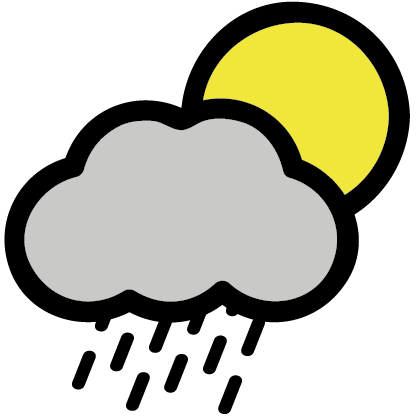
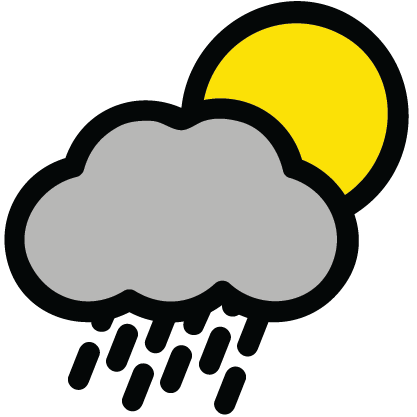
NightMode, working iconswitch

diff --git a/src/components/Layout.tsx b/src/components/Layout.tsx
@@ -7,7 +7,8 @@ import Home from './Home';
 import WeekOverview from './WeekOverview';
 import Clothes from './Clothes';
 
-interface Props{}
+interface Props{
+}
 
 interface State{
   isDayMode: boolean,
@@ -70,7 +71,7 @@ export default class Layout extends React.Component <Props, State>{
       return (
         <div style = {this.state.modeStyle}>
             <ErrorBoundary>
-              <MainView />
+              <MainView isDayMode = {this.state.isDayMode}/>
             </ErrorBoundary>
             <DayNightMode isDayMode = {this.state.isDayMode} buttonText = {this.state.buttonText} onToggleMode = {this.toggleDayNightMode}/>
             <Navbar isDayMode = {this.state.isDayMode}/>
@@ -82,13 +83,13 @@ export default class Layout extends React.Component <Props, State>{
       return (
         <div style = {this.state.modeStyle}>
             <ErrorBoundary>
-              <Home />
+              <Home isDayMode={this.state.isDayMode}/>
             </ErrorBoundary>
             <ErrorBoundary>
-              <WeekOverview />
+              <WeekOverview isDayMode = {this.state.isDayMode}/>
             </ErrorBoundary>
             <ErrorBoundary>
-              <Clothes />
+              <Clothes isDayMode = {this.state.isDayMode}/>
             </ErrorBoundary>
             <DayNightMode isDayMode = {this.state.isDayMode} buttonText = {this.state.buttonText} onToggleMode = {this.toggleDayNightMode}/>
         </div>

diff --git a/src/components/WeatherFigure.tsx b/src/components/WeatherFigure.tsx
@@ -1,7 +1,8 @@
 import React,{ CSSProperties } from 'react';
 
 interface Props {
-  weatherContent: any
+  weatherContent: any,
+  isDayMode: boolean
 }
 
 export default class WeatherFigure extends React.Component<Props>{
@@ -14,7 +15,9 @@ export default class WeatherFigure extends React.Component<Props>{
       const weather = this.props.weatherContent
       let weatherSlothIMG
 
-      if (weather.main.temp < 278){
+      if(!this.props.isDayMode){
+        weatherSlothIMG = "GothSloth";
+      } else if (weather.main.temp < 278){
         //temp in Kelvin, about 5+ C
         weatherSlothIMG = "ColdSloth";
       } else if (weather.weather[0].icon === "09d"){
@@ -37,7 +40,12 @@ export default class WeatherFigure extends React.Component<Props>{
       }
 
       let weatherSlothURL = require(`../asset/images/weatherSloths/${weatherSlothIMG}.png`)
-      const imgURL = require(`../asset/images/weatherIcons/${weather.weather[0].icon}.png`);
+      let imgURL
+      if (this.props.isDayMode){
+        imgURL = require(`../asset/images/weatherIcons/${weather.weather[0].icon}.png`);
+      } else {
+        imgURL = require(`../asset/images/weatherIcons/NightMode/${weather.weather[0].icon}.png`);
+      }
 
       return (
           <div style={{...weatherFigureContainer}}>

diff --git a/src/components/WeekOverview.tsx b/src/components/WeekOverview.tsx
@@ -2,7 +2,9 @@ import * as React from 'react';
 import WeekDay from './WeekDay'
 
 
-interface Props {}
+interface Props {
+  isDayMode:boolean
+}
 
 interface State {
   weatherData?: any,
@@ -56,10 +58,10 @@ export default class WeekOverview extends React.Component<Props, State>{
       weatherList.pop();
       return (
         <div style={{ ...weatherListContainer}}>
-            <WeekDay weatherContent={weatherListToday} key="0" />
+            <WeekDay weatherContent={weatherListToday} key="0"  isDayMode={this.props.isDayMode}/>
             {
             weatherList.map((weatherContent:any, index:number) => 
-            <WeekDay weatherContent={weatherContent} key={index} 
+            <WeekDay weatherContent={weatherContent} key={index}  isDayMode={this.props.isDayMode}
             />)}
         </div>
       );
@@ -68,7 +70,7 @@ export default class WeekOverview extends React.Component<Props, State>{
     return (
       <div style={{ ...weatherListContainer}}>
           {weatherList.map((weatherContent:any, index:number) => 
-          <WeekDay weatherContent={weatherContent} key={index}/>
+          <WeekDay weatherContent={weatherContent} key={index} isDayMode={this.props.isDayMode}/>
           )}
       </div>
     );

diff --git a/src/components/WeatherTemp.tsx b/src/components/WeatherTemp.tsx
@@ -1,7 +1,10 @@
 import React from 'react';
 import './WeatherTemp.css';
 
-interface Props{}
+interface Props{
+  isDayMode:boolean
+}
+
 interface State{
   city: string
   language: string
@@ -49,7 +52,13 @@ export default class WeatherTeamp extends React.Component<Props, State> {
       )
     }
     else {
-    const weatherIconUrl = require(`../asset/images/weatherIcons/${this.state.weather.weather[0].icon}.png`)
+    let weatherIconUrl;
+    
+    if(this.props.isDayMode){
+      weatherIconUrl = require(`../asset/images/weatherIcons/${this.state.weather.weather[0].icon}.png`);
+    } else {
+      weatherIconUrl = require(`../asset/images/weatherIcons/NightMode/${this.state.weather.weather[0].icon}.png`);
+    }
 
     const weatherIconALtDescription = "an icon of " + this.state.weather.weather[0].description;
     const tempInCelsius = this.kToCelsius(this.state.weather.main.temp);

diff --git a/src/components/WeekDay.tsx b/src/components/WeekDay.tsx
@@ -2,7 +2,8 @@ import React,{ CSSProperties } from 'react';
 
 
 interface Props {
-  weatherContent: any
+  weatherContent: any,
+  isDayMode: boolean
 }
 
 export default class WeekDay extends React.Component<Props>{
@@ -12,7 +13,12 @@ export default class WeekDay extends React.Component<Props>{
     }
 
     render() {
-      const imgURL = require(`../asset/images/weatherIcons/${this.props.weatherContent.weather[0].icon}.png`);
+      let imgURL
+      if(this.props.isDayMode){
+        imgURL = require(`../asset/images/weatherIcons/${this.props.weatherContent.weather[0].icon}.png`);
+      } else {
+        imgURL = require(`../asset/images/weatherIcons/NightMode/${this.props.weatherContent.weather[0].icon}.png`);
+      }
 
       const weekdayNameSE = ['Sön', 'Mån', 'Tis', 'Ons', 'Tor', 'Fre', 'Lör']
       const weekdayNum = new Date(this.props.weatherContent.dt * 1000).getDay();

diff --git a/src/components/MainView.tsx b/src/components/MainView.tsx
@@ -4,12 +4,17 @@ import Home from './Home';
 import WeekOverview from './WeekOverview';
 import Clothes from './Clothes';
 
-export default function MainView(){
+interface Props{
+    isDayMode: boolean
+}
+
+export default function MainView(props : Props){
     return (
         <Switch>
-            <Route exact path = '/' component = {Home} />
-            <Route path = '/Prognos' component = {WeekOverview} />
-            <Route path = '/Kläder' component = {Clothes} />
+            <Route exact path = '/' component={() => <Home isDayMode={props.isDayMode}/>} />
+            <Route path = '/Prognos' component={() => <WeekOverview  isDayMode={props.isDayMode}/>} />
+            <Route path = '/Kläder' component={() => <Clothes isDayMode={props.isDayMode}/>} />
         </Switch>
     )
 }
+

diff --git a/src/components/Clothes.tsx b/src/components/Clothes.tsx
@@ -3,6 +3,7 @@ import WeatherFigure from './WeatherFigure'
 import WeatherDescription from './WeatherDescription'
 
 interface Props {
+  isDayMode: boolean
 }
 
 interface State {
@@ -77,7 +78,7 @@ export default class Clothes extends React.Component<Props, State>{
     return (
 
       <div>
-          <WeatherFigure weatherContent={weatherOutPut}/>
+          <WeatherFigure weatherContent={weatherOutPut} isDayMode={this.props.isDayMode}/>
           <WeatherDescription weatherContent={weatherOutPut} whatDayIsIt={whatDayIsIt}/>
           <button type="button" name="whatDay" value="today" onClick={this.handleClick}>Idag</button>
           <button type="button" name="whatDay" value="tomorrow" onClick={this.handleClick}>Imorgon</button>

diff --git a/src/components/Home.tsx b/src/components/Home.tsx
@@ -1,11 +1,16 @@
 import React from 'react';
 import DateTimeContainer from './DateTimeContainer'
-import WeatherTeamp from './WeatherTemp';
+import WeatherTemp from './WeatherTemp';
 
-export default function Home() {
+interface Props{
+  isDayMode: boolean
+}
+
+
+export default function Home(props : Props) {
   return (
     <div>
-      <WeatherTeamp />
+      <WeatherTemp isDayMode={props.isDayMode}/>
       <DateTimeContainer />
     </div>
   );
